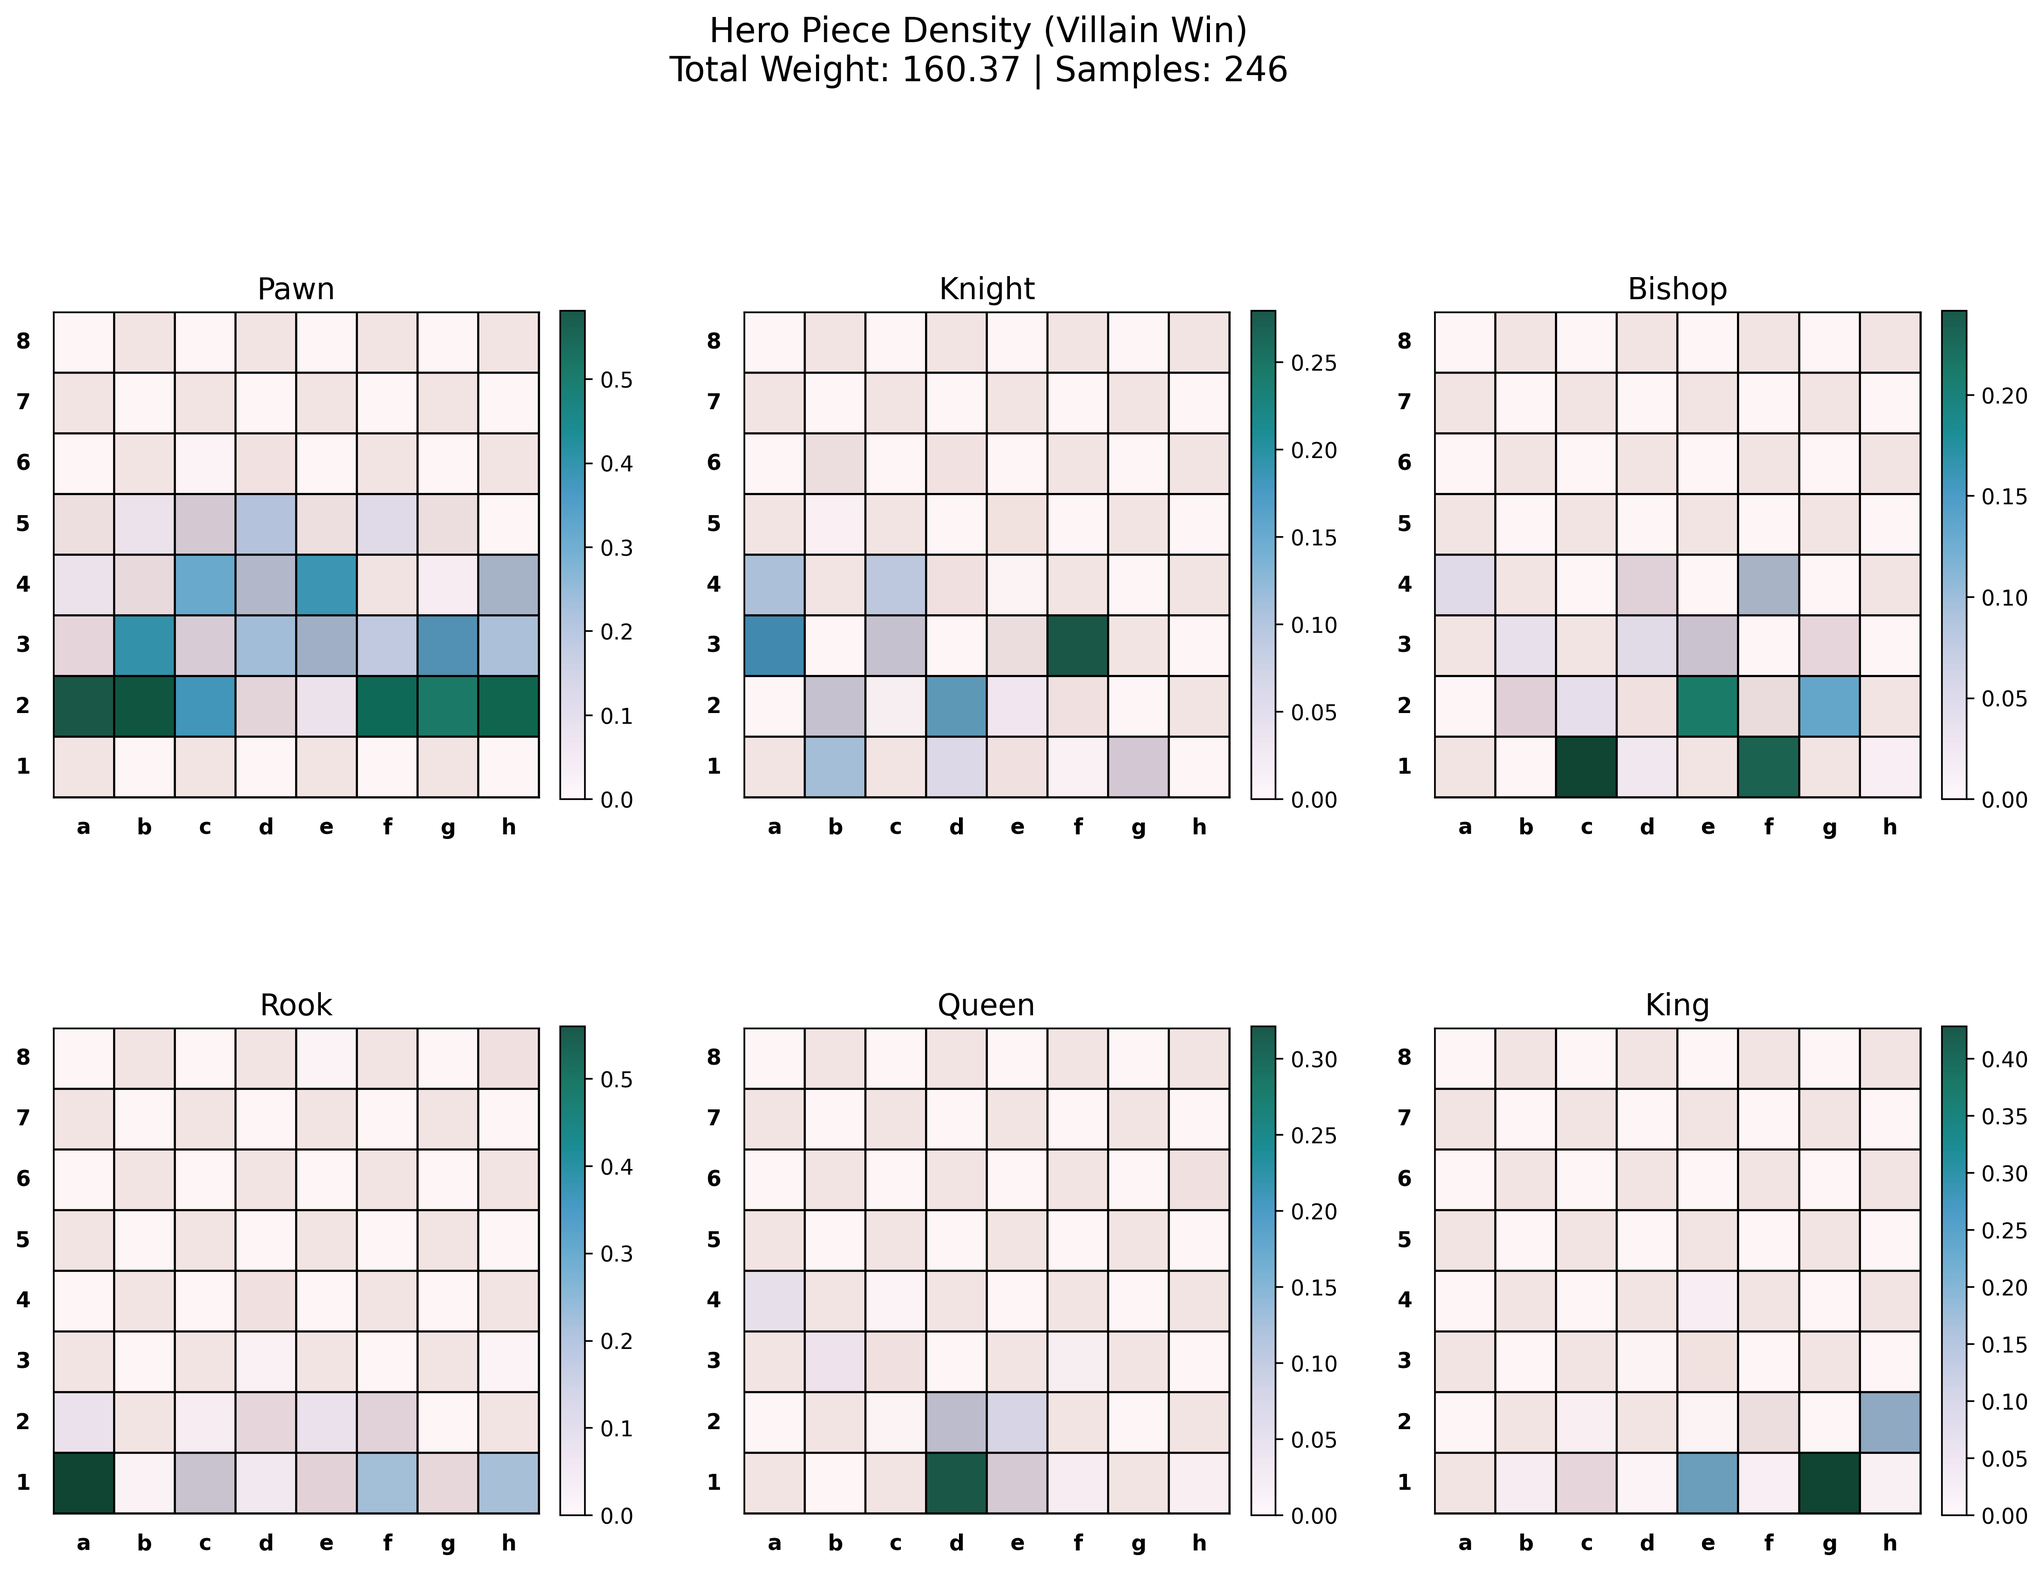
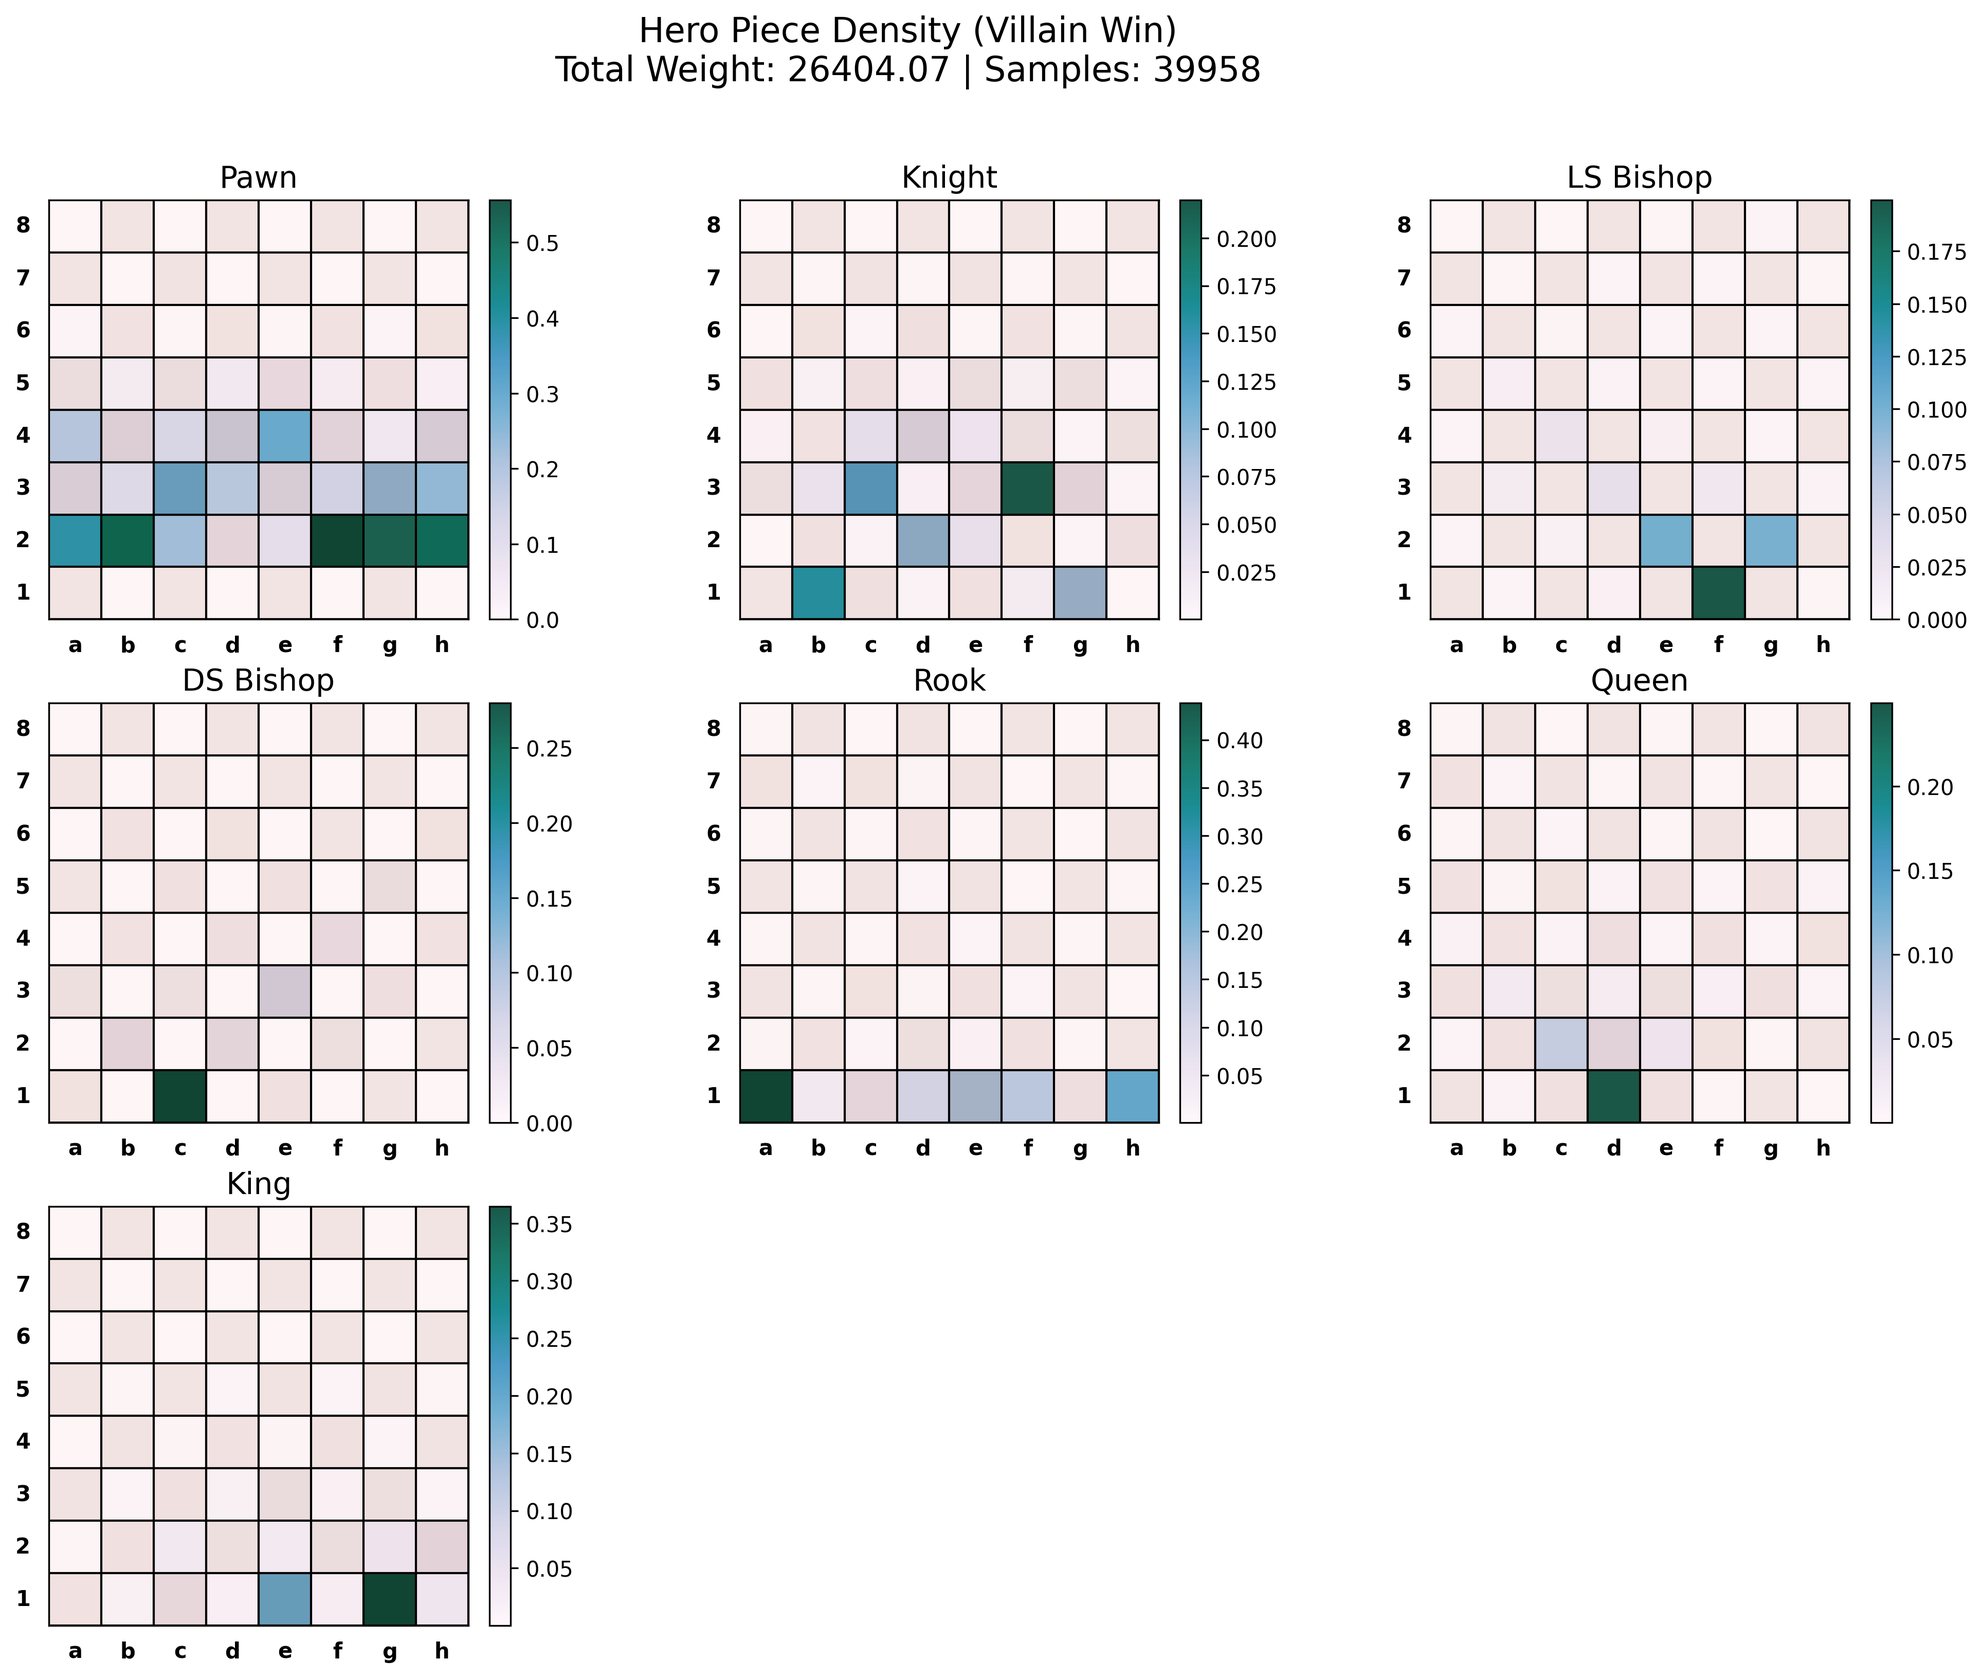
created an eda folder with all eda scripts and methods.

diff --git a/eda/density_plotting.py b/eda/density_plotting.py
@@ -7,6 +7,8 @@ import numpy as np
 import matplotlib.pyplot as plt
 from tensorflow.keras import Model
 import chess
+import imageio.v2 as imageio
+from PIL import Image
 
 import core.chess_database as chess_database
 import core.chess_environment as chess_env
@@ -83,14 +85,12 @@ def plot_piece_density_by_label(zst_file, sample_size=100000):
 	"""Plots hero and villain piece densities for different game outcomes, adjusted by importance sampling."""
 	gen = chess_database.pgn_zst_generator(zst_file, batch_size=32)
 
-	# Storage for piece densities by game outcome
 	piece_densities = {
 		0: {"hero": np.zeros((8, 8, 7)), "villain": np.zeros((8, 8, 7)), "weight_sum": 0, "count_samples": 0},
 		1: {"hero": np.zeros((8, 8, 7)), "villain": np.zeros((8, 8, 7)), "weight_sum": 0, "count_samples": 0},
 		2: {"hero": np.zeros((8, 8, 7)), "villain": np.zeros((8, 8, 7)), "weight_sum": 0, "count_samples": 0},
 	}
 
-	# Collect data
 	count = 0
 	for game_data, labels, importance in gen:
 		for i in range(len(labels)):
@@ -98,17 +98,15 @@ def plot_piece_density_by_label(zst_file, sample_size=100000):
 			if label in piece_densities:
 				weight = importance[i]
 
-				piece_densities[label]["hero"] += weight * game_data[i, :, :, :7]  # Hero pieces with LSB/DSB
-				piece_densities[label]["villain"] += weight * game_data[i, :, :, 9:16]  # Villain pieces
+				piece_densities[label]["hero"] += weight * game_data[i, :, :, :7]
+				piece_densities[label]["villain"] += weight * game_data[i, :, :, 9:16]
 				piece_densities[label]["weight_sum"] += weight
-				piece_densities[label]["count_samples"] += 1  # Direct count of samples
+				piece_densities[label]["count_samples"] += 1  
 				
 				count += 1
 		
 		if count >= sample_size:
 			break
-
-	PIECE_NAMES = ["Pawn", "Knight", "LSB", "DSB", "Rook", "Queen", "King"]
 
 	for result_label, result_name in RESULT_CATEGORIES.items():
 		total_weight = piece_densities[result_label]["weight_sum"]
@@ -122,33 +120,39 @@ def plot_piece_density_by_label(zst_file, sample_size=100000):
 		avg_villain = piece_densities[result_label]["villain"] / total_weight
 
 		# Plot Hero Piece Density
-		fig, axes = plt.subplots(2, 4, figsize=(20, 12))
+		fig, axes = plt.subplots(3, 3, figsize=(16, 12))
 		fig.suptitle(f"Hero Piece Density ({result_name})\nTotal Weight: {total_weight:.2f} | Samples: {num_samples}", fontsize=16)
-		plt.subplots_adjust(hspace=-0.3, wspace=0.3)
+		plt.subplots_adjust(hspace=0.2, wspace=0.3)
 
-		for i, ax in enumerate(axes.flat[:7]):
-			chess_env.draw_chessboard(ax)
-			im = ax.imshow(avg_hero[:, :, i], cmap="PuBuGn", interpolation="nearest", alpha=0.9, extent=[0, 8, 0, 8])
-			ax.set_title(f"{PIECE_NAMES[i]}", fontsize=14)
-			fig.colorbar(im, ax=ax, fraction=0.046, pad=0.04)
+		for i, ax in enumerate(axes.flat):
+			if i < 7:
+				chess_env.draw_chessboard(ax)
+				im = ax.imshow(avg_hero[:, :, i], cmap="PuBuGn", interpolation="nearest", alpha=0.9, extent=[0, 8, 0, 8])
+				ax.set_title(f"{PIECE_NAMES[i]}", fontsize=14)
+				fig.colorbar(im, ax=ax, fraction=0.046, pad=0.04)
+			else:
+				ax.axis("off")
 
 		plt.savefig(f"figures/standard_eda/hero_piece_distribution_{result_label}.png", dpi=300, bbox_inches="tight")
 		plt.close()
 
 		# Plot Villain Piece Density
-		fig, axes = plt.subplots(2, 4, figsize=(20, 12))
+		fig, axes = plt.subplots(3, 3, figsize=(16, 12))
 		fig.suptitle(f"Villain Piece Density ({result_name})\nTotal Weight: {total_weight:.2f} | Samples: {num_samples}", fontsize=16)
-		plt.subplots_adjust(hspace=-0.3, wspace=0.3)
+		plt.subplots_adjust(hspace=0.2, wspace=0.3)
 
-		for i, ax in enumerate(axes.flat[:7]):
-			chess_env.draw_chessboard(ax)
-			im = ax.imshow(avg_villain[:, :, i], cmap="PuBuGn", interpolation="nearest", alpha=0.9, extent=[0, 8, 0, 8])
-			ax.set_title(f"{PIECE_NAMES[i]}", fontsize=14)
-			fig.colorbar(im, ax=ax, fraction=0.046, pad=0.04)
+		for i, ax in enumerate(axes.flat):
+			if i < 7:
+				chess_env.draw_chessboard(ax)
+				im = ax.imshow(avg_villain[:, :, i], cmap="PuBuGn", interpolation="nearest", alpha=0.9, extent=[0, 8, 0, 8])
+				ax.set_title(f"{PIECE_NAMES[i]}", fontsize=14)
+				fig.colorbar(im, ax=ax, fraction=0.046, pad=0.04)
+			else:
+				ax.axis("off")
 
 		plt.savefig(f"figures/standard_eda/villain_piece_distribution_{result_label}.png", dpi=300, bbox_inches="tight")
 		plt.close()
 
 if __name__ == "__main__":
 	zst_file = "data\LumbrasGigaBase 2024.pgn.zst"
-	plot_piece_density_by_label(zst_file, sample_size=1000)
+	plot_piece_density_by_label(zst_file, sample_size=100000)

diff --git a/eda/importance_animation.py b/eda/importance_animation.py
@@ -1,0 +1,118 @@
+import sys
+import os
+sys.path.append(os.path.abspath(os.path.join(os.path.dirname(__file__), '..')))
+
+from tensorflow import keras
+import numpy as np
+import matplotlib.pyplot as plt
+from tensorflow.keras import Model
+import chess
+import imageio.v2 as imageio
+from PIL import Image
+
+import core.chess_database as chess_database
+import core.chess_environment as chess_env
+import collections
+
+PIECE_NAMES = ["Pawn", "Knight", "LS Bishop", "DS Bishop", "Rook", "Queen", "King"]
+RESULT_CATEGORIES = {0: "Hero Win", 1: "Draw", 2: "Villain Win"}
+
+def plot_piece_density_by_importance(zst_file, sample_size=50000, num_frames=20):
+	"""Creates animated gifs showing how piece densities evolve with importance using percentile-based thresholds."""
+	gen = chess_database.pgn_zst_generator(zst_file, batch_size=32)
+
+	# Define storage for piece densities
+	all_importance = []
+	all_game_data = []
+
+	# Storage for frames
+	hero_frames = {i: [] for i in range(7)}
+	villain_frames = {i: [] for i in range(7)}
+
+	count = 0
+	for game_data, _, importance in gen:
+		all_importance.extend(importance.tolist())  # Track all importance values
+		all_game_data.append((game_data, importance))  # Store full game data
+
+		count += game_data.shape[0]
+		if count >= sample_size:
+			break
+
+	# Dynamically compute percentile thresholds across all games
+	importance_thresholds = np.percentile(all_importance, np.linspace(0, 100, num_frames))
+
+	# Generate frames for each piece
+	for piece in range(7):
+		for threshold in importance_thresholds:
+			hero_snapshot = np.zeros((8, 8))
+			villain_snapshot = np.zeros((8, 8))
+			num_positions = 0  # Track valid positions
+
+			# Iterate over ALL collected game data
+			for game_data, importance in all_game_data:
+				for i in range(game_data.shape[0]):
+					if importance[i] >= threshold:  # Use percentile thresholding
+						hero_snapshot += game_data[i, :, :, piece]
+						villain_snapshot += game_data[i, :, :, piece + 9]
+						num_positions += 1  # Count valid positions
+
+			# Normalize snapshot using total valid positions
+			if num_positions > 0:
+				hero_snapshot /= num_positions
+				villain_snapshot /= num_positions
+
+			# Store frames
+			hero_frames[piece].append(hero_snapshot.copy())
+			villain_frames[piece].append(villain_snapshot.copy())
+
+	# Generate and save GIFs
+	save_animation(hero_frames, villain_frames, importance_thresholds)
+
+def save_animation(hero_frames, villain_frames, importance_thresholds):
+	"""Saves animations for each piece's density evolution."""
+	os.makedirs("figures/animations", exist_ok=True)
+	cmap = "magma"  # Updated colormap for better contrast
+
+	for piece in range(7):
+		hero_images = []
+
+		for frame in range(len(hero_frames[piece])):
+			fig, ax = plt.subplots(1, 2, figsize=(10, 5))
+
+			# Super title with rounded importance value
+			rounded_importance = round(importance_thresholds[frame], 2)
+			fig.suptitle(f"Piece Density Evolution | Importance ≥ {rounded_importance}", fontsize=14)
+
+			# Hero Density Frame
+			chess_env.draw_chessboard(ax[0])
+			im = ax[0].imshow(hero_frames[piece][frame], cmap=cmap, alpha=0.9, extent=[0, 8, 0, 8],
+					 vmin=0.0, vmax=1.0)
+			ax[0].set_title(f"Hero {PIECE_NAMES[piece]}")
+			fig.colorbar(im, ax=ax[0])
+
+			# Villain Density Frame
+			chess_env.draw_chessboard(ax[1])
+			im = ax[1].imshow(villain_frames[piece][frame], cmap=cmap, alpha=0.9, extent=[0, 8, 0, 8],
+					 vmin=0.0, vmax=1.0)
+			ax[1].set_title(f"Villain {PIECE_NAMES[piece]}")
+			fig.colorbar(im, ax=ax[1])
+
+			# Save frame as image
+			filename = f"figures/animations/frame_{piece}_{frame}.png"
+			plt.savefig(filename, dpi=100, bbox_inches="tight", pad_inches=0.1)
+			plt.close()
+			
+			img = imageio.imread(filename)
+			img = np.array(Image.fromarray(img).resize((1000, 500)))  # Ensure consistent size
+			hero_images.append(img)
+
+		# Save GIFs
+		imageio.mimsave(f"figures/animations/importance_{PIECE_NAMES[piece]}.gif", hero_images, duration=0.5)
+
+		# Clean up temp frames
+		for frame in range(len(hero_frames[piece])):
+			os.remove(f"figures/animations/frame_{piece}_{frame}.png")
+
+if __name__ == "__main__":
+	zst_file = "data\LumbrasGigaBase 2024.pgn.zst"
+	plot_piece_density_by_importance(zst_file, sample_size=50000, num_frames=20)

diff --git a/eda/pieces_animation.py b/eda/pieces_animation.py
@@ -1,0 +1,111 @@
+import sys
+import os
+sys.path.append(os.path.abspath(os.path.join(os.path.dirname(__file__), '..')))
+
+from tensorflow import keras
+import numpy as np
+import matplotlib.pyplot as plt
+from tensorflow.keras import Model
+import chess
+import imageio.v2 as imageio
+from PIL import Image
+
+import core.chess_database as chess_database
+import core.chess_environment as chess_env
+import collections
+
+PIECE_NAMES = ["Pawn", "Knight", "LS Bishop", "DS Bishop", "Rook", "Queen", "King"]
+RESULT_CATEGORIES = {0: "Hero Win", 1: "Draw", 2: "Villain Win"}
+
+def plot_piece_density_by_piece_count(zst_file, sample_size=50000):
+	"""Creates animated gifs showing how piece densities evolve from 32 to 2 pieces."""
+	gen = chess_database.pgn_zst_generator(zst_file, batch_size=32)
+
+	# Storage for positions categorized by piece count
+	all_game_data = {count: [] for count in range(32, 1, -1)}
+
+	count = 0
+	for game_data, _, _ in gen:
+		piece_counts = np.sum(game_data[:, :, :, :7], axis=(1, 2, 3))  # Count all pieces on board
+		piece_counts += np.sum(game_data[:, :, :, 9:16], axis=(1, 2, 3))
+
+		for i in range(game_data.shape[0]):
+			piece_count = int(piece_counts[i])
+			if 2 <= piece_count <= 32:
+				all_game_data[piece_count].append(game_data[i])
+
+		count += game_data.shape[0]
+		if count >= sample_size:
+			break
+
+	# Generate frames for each piece
+	hero_frames = {i: [] for i in range(7)}
+	villain_frames = {i: [] for i in range(7)}
+	valid_piece_counts = [pc for pc in all_game_data.keys() if len(all_game_data[pc]) > 0]
+
+	for piece in range(7):
+		for piece_count in valid_piece_counts:
+			positions = np.array(all_game_data[piece_count])  # Convert to NumPy array
+
+			if positions.shape[0] == 0:
+				continue  # Skip if no data for this piece count
+
+			# Compute average density
+			hero_snapshot = np.mean(positions[:, :, :, piece], axis=0)
+			villain_snapshot = np.mean(positions[:, :, :, piece + 9], axis=0)
+
+			# Store frames
+			hero_frames[piece].append(hero_snapshot)
+			villain_frames[piece].append(villain_snapshot)
+
+	# Generate and save GIFs
+	save_animation_pieces(hero_frames, villain_frames, valid_piece_counts)
+
+def save_animation_pieces(hero_frames, villain_frames, piece_counts):
+	"""Saves animations for each piece's density evolution."""
+	os.makedirs("figures/animations/", exist_ok=True)
+	cmap = "magma"
+
+	for piece in range(7):
+		hero_images = []
+
+		for frame in range(len(hero_frames[piece])):
+			fig, ax = plt.subplots(1, 2, figsize=(10, 5))
+
+			# Super title with current piece count
+			current_piece_count = piece_counts[frame]
+			fig.suptitle(f"Piece Density Evolution | {current_piece_count} Pieces", fontsize=14)
+
+			# Hero Density Frame
+			chess_env.draw_chessboard(ax[0])
+			im = ax[0].imshow(hero_frames[piece][frame], cmap=cmap, alpha=0.9, extent=[0, 8, 0, 8], 
+							  vmin=0.0, vmax=1.0)
+			ax[0].set_title(f"Hero {PIECE_NAMES[piece]}")
+			fig.colorbar(im, ax=ax[0])
+
+			# Villain Density Frame
+			chess_env.draw_chessboard(ax[1])
+			im = ax[1].imshow(villain_frames[piece][frame], cmap=cmap, alpha=0.9, extent=[0, 8, 0, 8], 
+							  vmin=0.0, vmax=1.0)
+			ax[1].set_title(f"Villain {PIECE_NAMES[piece]}")
+			fig.colorbar(im, ax=ax[1])
+
+			# Save frame as image
+			filename = f"figures/animations/frame_{piece}_{frame}.png"
+			plt.savefig(filename, dpi=100, bbox_inches="tight", pad_inches=0.1)
+			plt.close()
+
+			img = imageio.imread(filename)
+			img = np.array(Image.fromarray(img).resize((1000, 500)))  # Ensure consistent size
+			hero_images.append(img)
+
+		# Save GIFs
+		imageio.mimsave(f"figures/animations/pieces_{PIECE_NAMES[piece]}.gif", hero_images, duration=0.5)
+
+		# Clean up temp frames
+		for frame in range(len(hero_frames[piece])):
+			os.remove(f"figures/animations/frame_{piece}_{frame}.png")
+
+if __name__ == "__main__":
+	zst_file = "data\LumbrasGigaBase 2024.pgn.zst"
+	plot_piece_density_by_piece_count(zst_file, sample_size=50000)

diff --git a/core/chess_database.py b/core/chess_database.py
@@ -4,6 +4,7 @@ import zstandard as zstd
 import io
 import tensorflow as tf
 import core.chess_environment as chess_env
+import copy
 
 GAMMA = 0.99 # Discount factor for importance sampling.
 
@@ -44,17 +45,11 @@ def pgn_zst_generator(zst_file, batch_size=32):
 					continue  
 
 				# Compute total number of plies in the game
-				ply_count = 0
-				temp_node = game
-				while temp_node.variations:
-					temp_node = temp_node.variation(0)
-					ply_count += 1
-
+				ply_count = sum(1 for _ in game.mainline_moves())  # Efficient ply counter
 				current_ply = 0
 
-				while node.variations:
-					next_node = node.variation(0)
-					move = next_node.move
+				# Iterate through only mainline moves
+				for move in game.mainline_moves():
 					fen = board.fen()
 					turn = board.turn
 					relative_modifier = -1 if turn else 1
@@ -72,7 +67,6 @@ def pgn_zst_generator(zst_file, batch_size=32):
 
 					# Move forward
 					board.push(move)
-					node = next_node
 					current_ply += 1
 
 					# Yield batch when ready

diff --git a/core/chess_environment.py b/core/chess_environment.py
@@ -50,7 +50,10 @@ def fast_fen_to_example(fen):
 				piece_index = piece_map.get(char.upper(), None)
 				if piece_index is not None:
 					if char.upper() == "B":
-						piece_index = 2 if (row_idx + col_idx) % 2 == 0 else 3  # LSB (2) or DSB (3)
+						if is_white_turn:
+							piece_index = 2 if (row_idx + col_idx) % 2 == 0 else 3  # LSB (2) or DSB (3)
+						else:
+							piece_index = 3 if (row_idx + col_idx) % 2 == 0 else 2  # We need this since we do a horizontal flip
 			
 					if (char.isupper() and is_white_turn) or (char.islower() and not is_white_turn):
 						tensor[row_idx, col_idx, piece_index] = 1  # Current player
